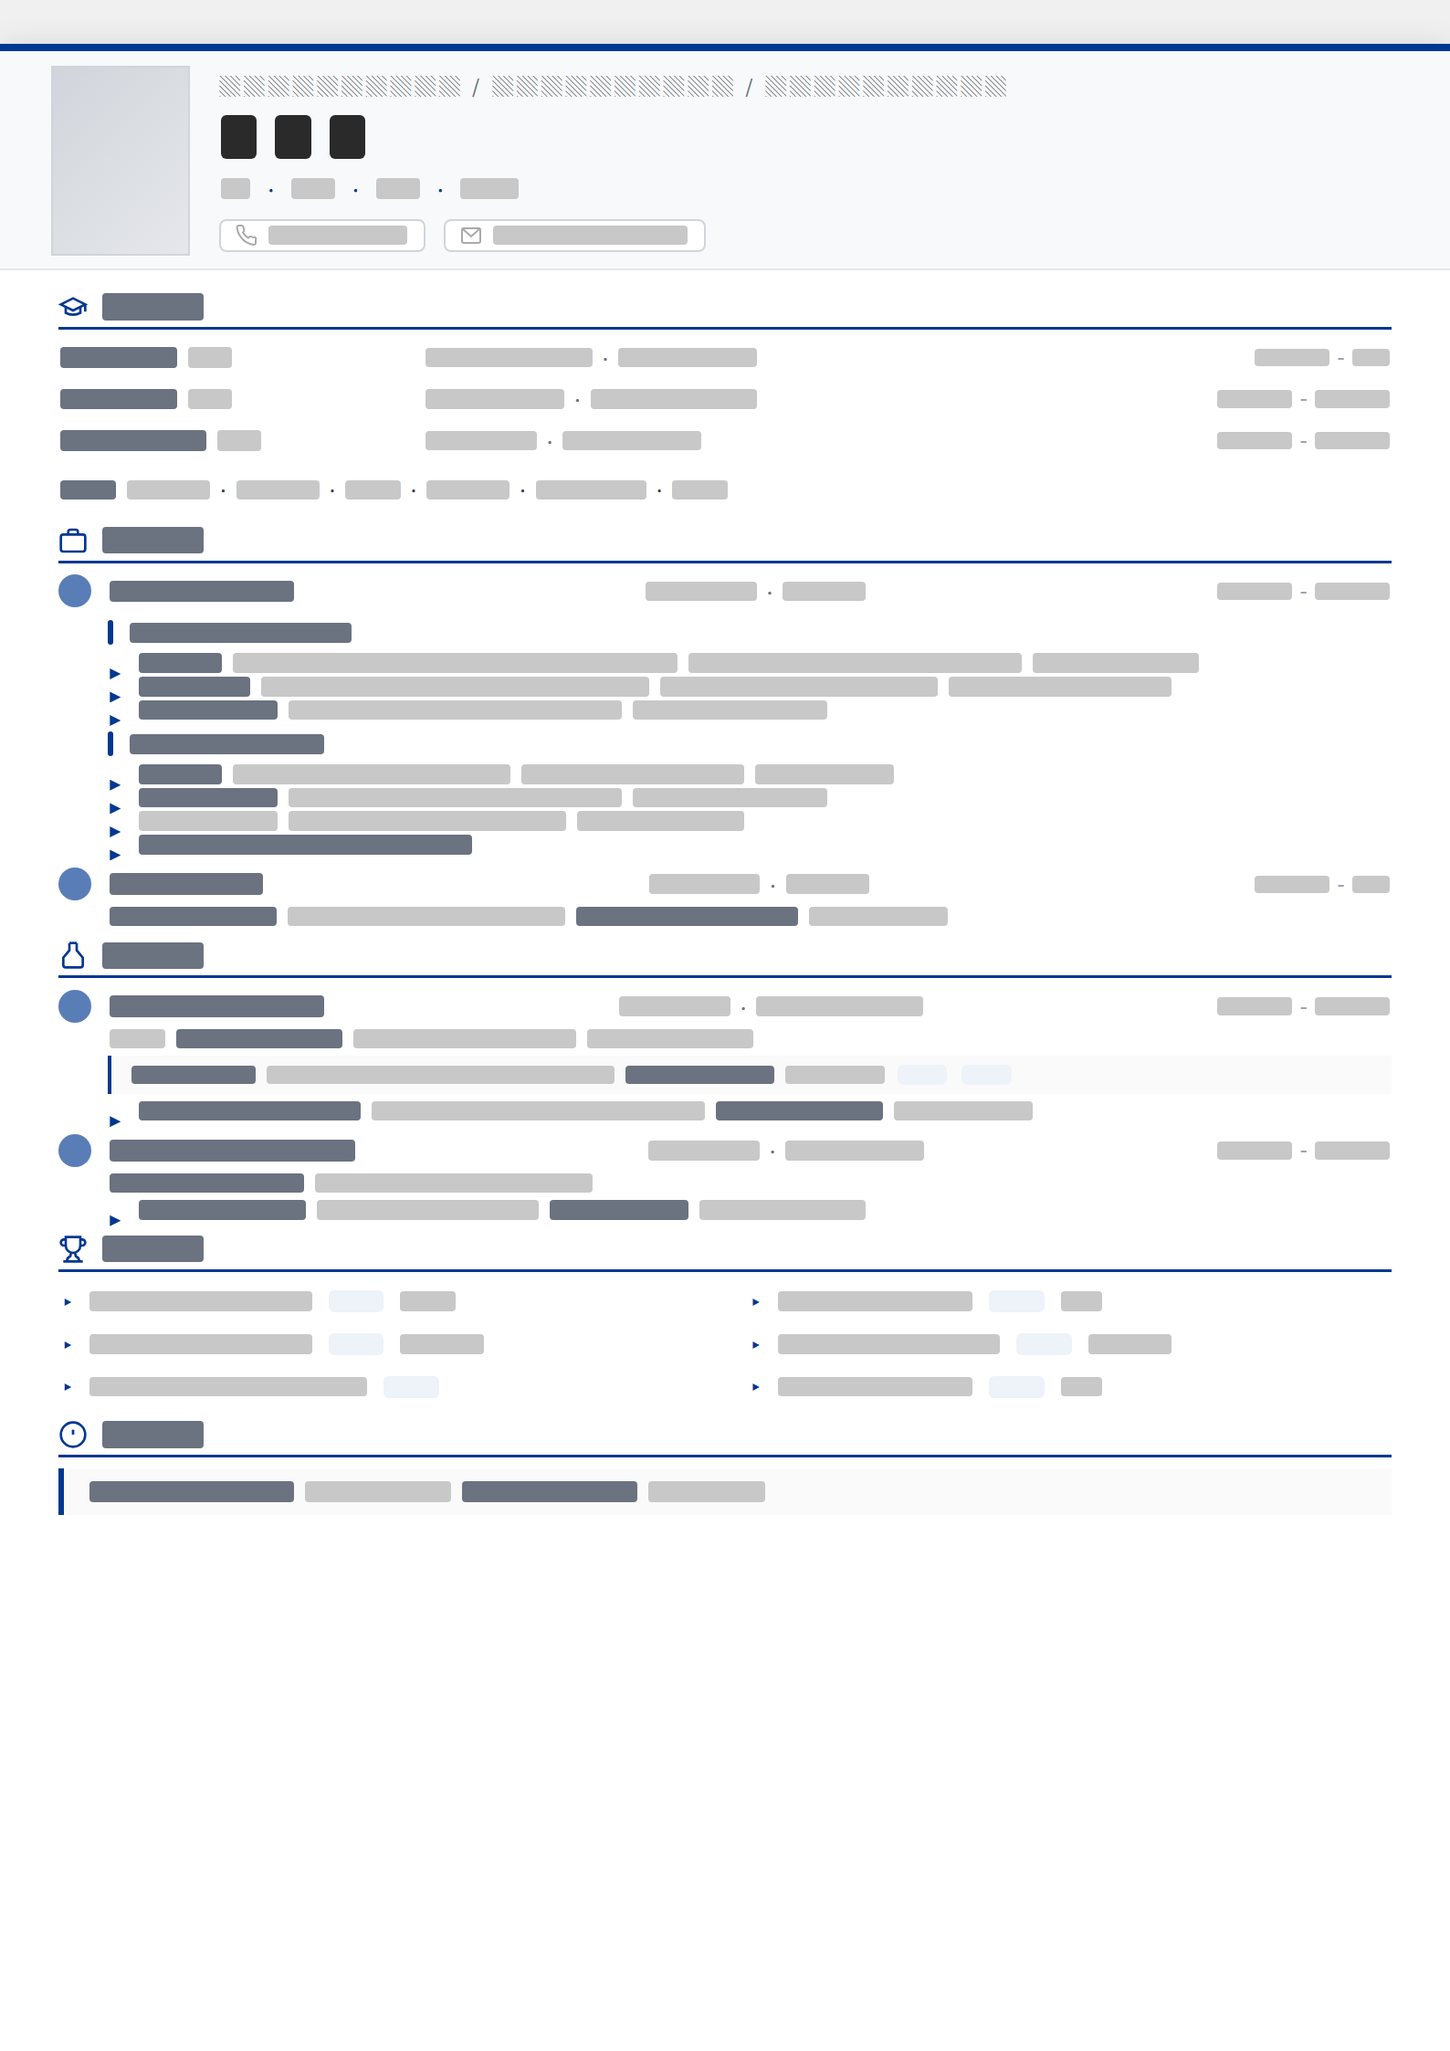
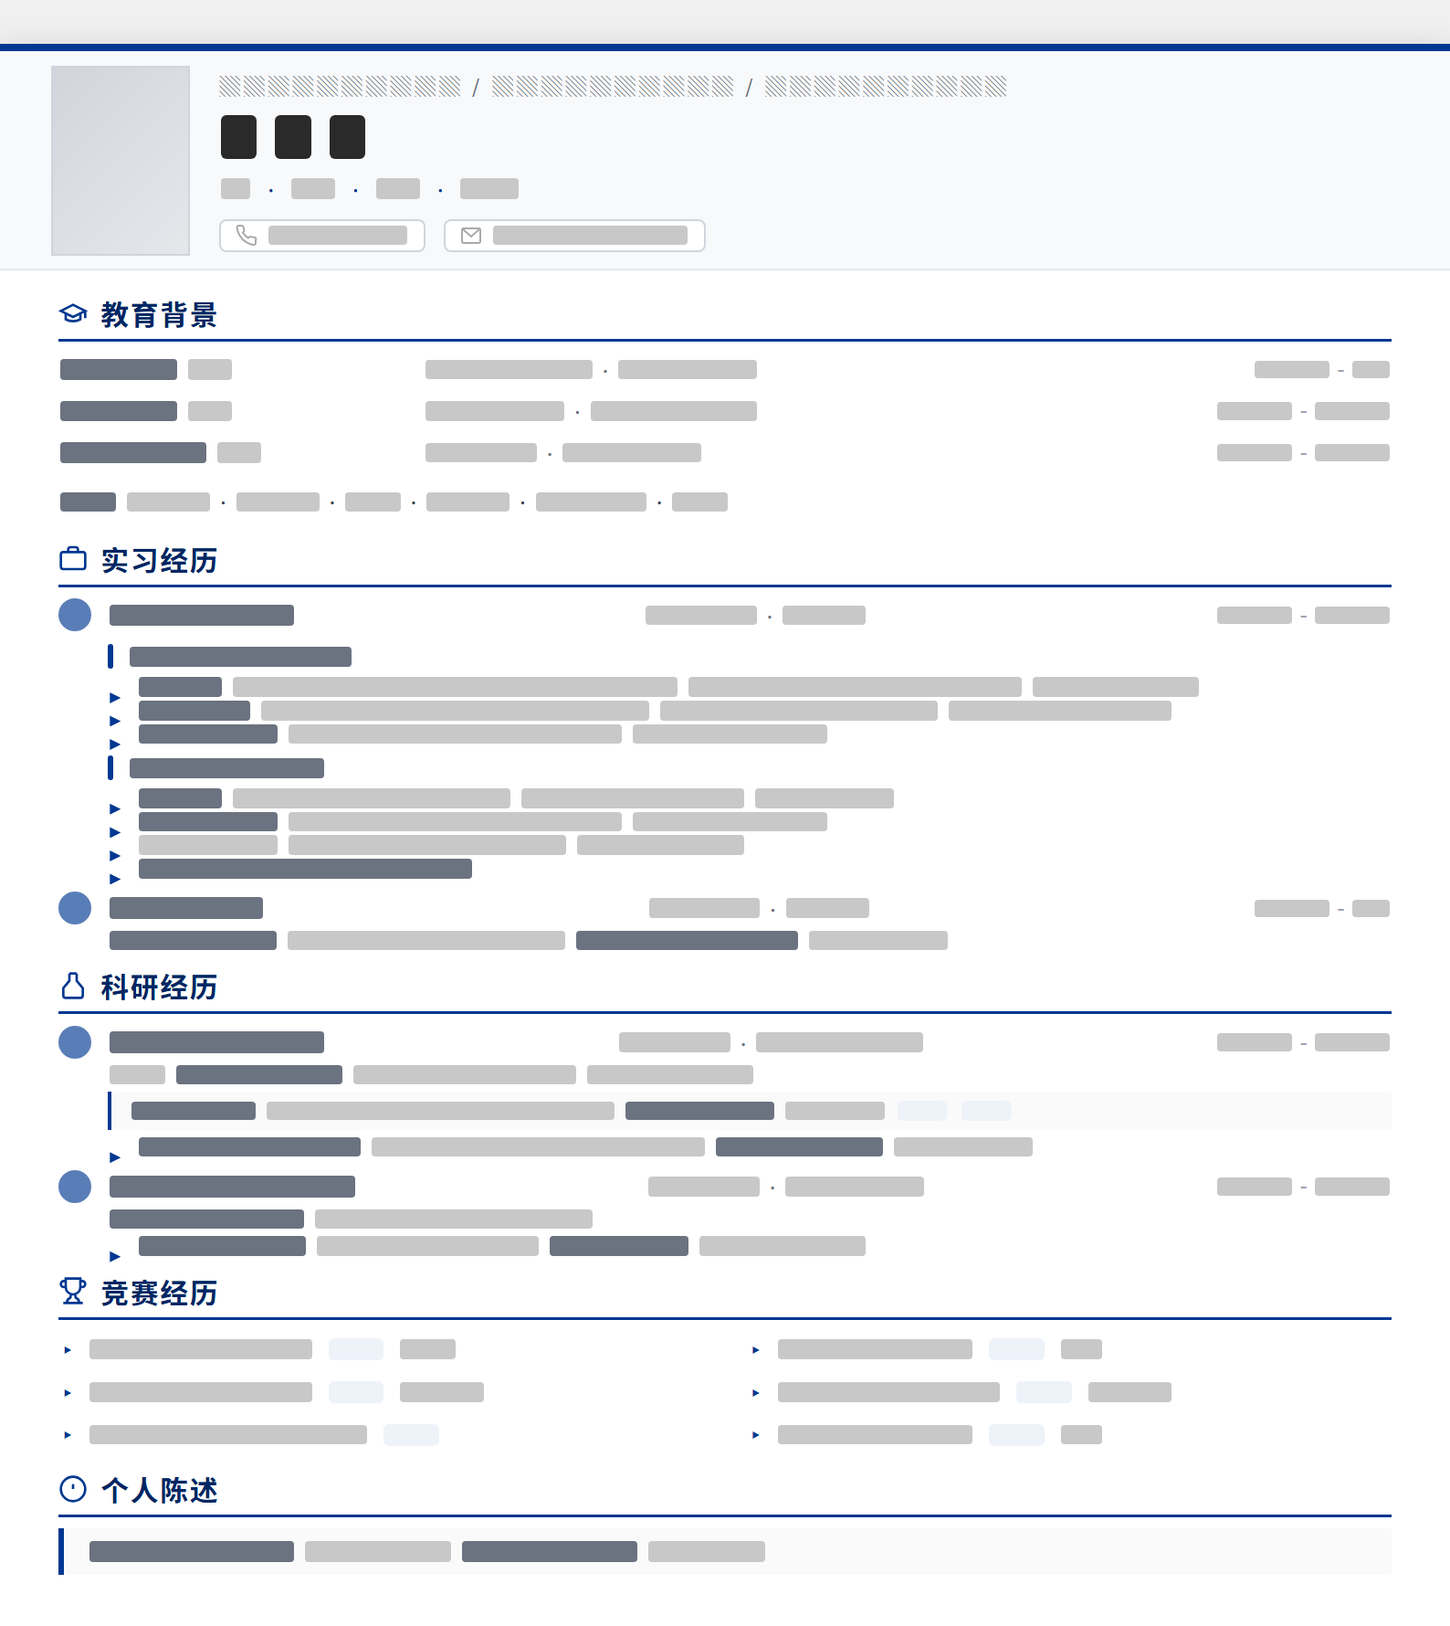
Tighter redacted preview: section titles visible, no bottom whitespace

diff --git a/examples/_preview-source.html b/examples/_preview-source.html
@@ -1,0 +1,375 @@
+<!DOCTYPE html>
+<html lang="zh-CN">
+<head>
+  <meta charset="UTF-8" />
+  <meta name="viewport" content="width=device-width, initial-scale=1.0" />
+  <title>cc-resume layout preview</title>
+  <style>
+    @font-face { font-family: "Noto Sans SC"; src: url("../fonts/noto-sans-sc-400.woff2") format("woff2"); font-weight: 400; font-display: swap; }
+    @font-face { font-family: "Noto Sans SC"; src: url("../fonts/noto-sans-sc-500.woff2") format("woff2"); font-weight: 500; font-display: swap; }
+    @font-face { font-family: "Noto Sans SC"; src: url("../fonts/noto-sans-sc-600.woff2") format("woff2"); font-weight: 600; font-display: swap; }
+    @font-face { font-family: "Noto Sans SC"; src: url("../fonts/noto-sans-sc-700.woff2") format("woff2"); font-weight: 700; font-display: swap; }
+    @font-face { font-family: "IBM Plex Sans"; src: url("../fonts/ibm-plex-sans-400.woff2") format("woff2"); font-weight: 400; font-display: swap; }
+    @font-face { font-family: "IBM Plex Sans"; src: url("../fonts/ibm-plex-sans-500.woff2") format("woff2"); font-weight: 500; font-display: swap; }
+    @font-face { font-family: "IBM Plex Sans"; src: url("../fonts/ibm-plex-sans-600.woff2") format("woff2"); font-weight: 600; font-display: swap; }
+    @font-face { font-family: "IBM Plex Sans"; src: url("../fonts/ibm-plex-sans-700.woff2") format("woff2"); font-weight: 700; font-display: swap; }
+    @font-face { font-family: "Newsreader"; src: url("../fonts/newsreader-400.woff2") format("woff2"); font-weight: 400; font-display: swap; }
+    @font-face { font-family: "Newsreader"; src: url("../fonts/newsreader-400-italic.woff2") format("woff2"); font-weight: 400; font-style: italic; font-display: swap; }
+    @font-face { font-family: "Newsreader"; src: url("../fonts/newsreader-600.woff2") format("woff2"); font-weight: 600; font-display: swap; }
+
+    :root {
+      --accent:      #003891;
+      --accent-deep: #002664;
+      --tag-bg:      #eef2f9;
+      --redact:      #c8c8c8;
+      --redact-strong: #6b7280;
+    }
+
+    * { box-sizing: border-box; margin: 0; padding: 0; }
+
+    body {
+      font-family: "IBM Plex Sans", "Noto Sans SC", "PingFang SC", "Microsoft YaHei", sans-serif;
+      font-size: 10.5pt;
+      color: #222;
+      background: #f0f0f0;
+      padding: 24px 0 40px;
+      -webkit-font-smoothing: antialiased;
+      -webkit-print-color-adjust: exact;
+      print-color-adjust: exact;
+    }
+
+    .page {
+      width: 210mm;
+      background: #fff; margin: 0 auto;
+      box-shadow: 0 2px 16px rgba(0,0,0,0.13);
+      border-top: 4px solid var(--accent);
+      padding-bottom: 14px;
+    }
+
+    /* Redaction blocks */
+    .r {
+      display: inline-block;
+      vertical-align: -1px;
+      background: var(--redact);
+      border-radius: 2px;
+      height: 0.85em;
+      margin: 0 1px;
+    }
+    .r-strong { background: var(--redact-strong); }
+    .r-2  { width: 1.2em; } .r-3  { width: 1.8em; } .r-4  { width: 2.4em; }
+    .r-6  { width: 3.6em; } .r-8  { width: 4.8em; } .r-10 { width: 6em;   }
+    .r-12 { width: 7.2em; } .r-14 { width: 8.4em; } .r-16 { width: 9.6em; }
+    .r-20 { width: 12em;  } .r-24 { width: 14.4em;} .r-28 { width: 16.8em;}
+    .r-32 { width: 19.2em;} .r-36 { width: 21.6em;}
+
+    .header {
+      display: flex; align-items: center; gap: 16px;
+      padding: 8px 28px 7px;
+      background: #f8f9fb;
+      border-bottom: 1px solid #e5e7eb;
+    }
+    .header-photo {
+      width: 76px; height: 104px;
+      border: 1px solid #d1d5db;
+      flex-shrink: 0;
+      background: linear-gradient(135deg, #d1d5db 0%, #e5e7eb 100%);
+    }
+    .header-info { flex: 1; }
+    .header-track { font-size: 8.5pt; letter-spacing: 0.18em; color: #6b7280; text-transform: uppercase; margin-bottom: 4px; }
+    .header-name {
+      display: flex; align-items: center; gap: 8px;
+      margin-bottom: 4px;
+      height: 24pt;
+    }
+    .header-name .r {
+      height: 18pt;
+      width: 1.4em;
+      background: #2a2a2a;
+      border-radius: 3px;
+    }
+    .header-basic { font-size: 10pt; color: #6b7280; margin-bottom: 8px; display: flex; gap: 8px; align-items: center; }
+    .header-basic .sep { color: var(--accent); }
+    .header-contacts { display: flex; gap: 10px; flex-wrap: wrap; }
+    .contact-item {
+      display: flex; align-items: center; gap: 5px;
+      font-size: 9.5pt; color: #374151;
+      border: 1px solid #d1d5db; border-radius: 4px;
+      padding: 2px 8px; background: #fff;
+    }
+
+    .content { padding: 12px 32px 14px; }
+    .section { margin-bottom: 8px; }
+    .section-title {
+      display: flex; align-items: center; gap: 7px;
+      font-size: 11.5pt; font-weight: 700;
+      color: var(--accent-deep);
+      border-bottom: 1.5px solid var(--accent);
+      padding-bottom: 3px; margin-bottom: 6px;
+      letter-spacing: 0.06em;
+    }
+
+    .edu-row {
+      display: flex; align-items: center;
+      margin-bottom: 4px;
+      height: 14pt;
+    }
+    .edu-school { font-weight: 600; width: 200px; flex-shrink: 0; color: #111; font-size: 10pt; display: flex; align-items: center; gap: 4px; }
+    .edu-degree { color: #6b7280; flex: 1; font-size: 9.5pt; display: flex; align-items: center; gap: 4px; }
+    .edu-date   { color: #9ca3af; font-size: 8.5pt; text-align: right; white-space: nowrap; display: flex; align-items: center; gap: 3px; justify-content: flex-end; }
+    .edu-meta {
+      font-size: 9.5pt; color: #374151;
+      line-height: 1.85; margin-top: 6px;
+      display: flex; flex-wrap: wrap; align-items: center; gap: 4px;
+    }
+
+    .entry { margin-bottom: 7px; }
+    .entry-header {
+      display: flex; align-items: center; gap: 9px;
+      margin-bottom: 3px;
+      height: 14pt;
+    }
+    .entry-logo {
+      width: 18px; height: 18px;
+      border-radius: 50%;
+      flex-shrink: 0;
+      background: var(--accent);
+      opacity: 0.65;
+    }
+    .entry-company { font-weight: 700; font-size: 10.5pt; color: #111; display: flex; gap: 4px; align-items: center; }
+    .entry-role    { color: #6b7280; flex: 1; text-align: center; font-size: 9.5pt; display: flex; gap: 4px; align-items: center; justify-content: center; }
+    .entry-date    { color: #9ca3af; font-size: 8.5pt; display: flex; gap: 3px; align-items: center; }
+    .entry-desc    { font-size: 9.5pt; color: #374151; line-height: 1.7; margin: 3px 0 4px 27px; display: flex; flex-wrap: wrap; gap: 4px; align-items: center; }
+
+    .entry-bullets { margin: 0 0 0 27px; padding-left: 0; list-style: none; }
+    .entry-bullets li {
+      position: relative;
+      font-size: 9.5pt; line-height: 1.7;
+      margin-bottom: 2px; padding-left: 16px;
+      display: flex; flex-wrap: wrap; gap: 4px; align-items: center;
+    }
+    .entry-bullets li::before {
+      content: ""; position: absolute;
+      left: 1px; top: 0.65em;
+      width: 6px; height: 6px;
+      background: var(--accent);
+      clip-path: polygon(0 0, 100% 50%, 0 100%);
+    }
+
+    .sub-heading {
+      position: relative;
+      font-size: 9.5pt; font-weight: 600;
+      color: #374151;
+      margin: 4px 0 2px 27px;
+      padding-left: 11px;
+      display: flex; gap: 4px; align-items: center;
+      height: 14pt;
+    }
+    .sub-heading::before {
+      content: ""; position: absolute;
+      left: 0; top: 0.18em; bottom: 0.22em;
+      width: 3px;
+      background: var(--accent);
+      border-radius: 1.5px;
+    }
+
+    .paper-cite {
+      font-size: 8.5pt; line-height: 1.6;
+      margin: 3px 0 4px 27px;
+      padding: 5px 10px;
+      background: #fafafa;
+      border-left: 2px solid var(--accent);
+      font-family: "Newsreader", serif;
+      display: flex; flex-wrap: wrap; gap: 4px; align-items: center;
+    }
+
+    .award-grid { display: grid; grid-template-columns: 1fr 1fr; gap: 3px 24px; }
+    .award-item {
+      font-size: 9.5pt; color: #374151;
+      line-height: 1.7;
+      display: flex; gap: 6px; align-items: center;
+    }
+    .award-item::before { content: "▸"; color: var(--accent); flex-shrink: 0; font-size: 9pt; }
+    .award-tag-block {
+      display: inline-block;
+      background: var(--tag-bg);
+      width: 2.4em; height: 0.95em;
+      border-radius: 3px; margin: 0 2px;
+    }
+
+    .statement {
+      font-size: 10pt; line-height: 1.75;
+      padding: 7px 13px;
+      background: #fafafa;
+      border-left: 3px solid var(--accent);
+      display: flex; flex-wrap: wrap; gap: 4px; align-items: center;
+    }
+
+    @page { size: A4; margin: 0; }
+  </style>
+</head>
+<body>
+<div class="page">
+
+  <div class="header">
+    <div class="header-photo"></div>
+    <div class="header-info">
+      <div class="header-track">▒▒▒▒▒▒▒▒▒▒ / ▒▒▒▒▒▒▒▒▒▒ / ▒▒▒▒▒▒▒▒▒▒</div>
+      <div class="header-name">
+        <span class="r"></span><span class="r"></span><span class="r"></span>
+      </div>
+      <div class="header-basic">
+        <span class="r r-2"></span><span class="sep">·</span>
+        <span class="r r-3"></span><span class="sep">·</span>
+        <span class="r r-3"></span><span class="sep">·</span>
+        <span class="r r-4"></span>
+      </div>
+      <div class="header-contacts">
+        <span class="contact-item">
+          <svg width="12" height="12" viewBox="0 0 24 24" fill="none" stroke="#aaa" stroke-width="2"><path d="M22 16.92v3a2 2 0 0 1-2.18 2 19.79 19.79 0 0 1-8.63-3.07A19.5 19.5 0 0 1 4.69 12 19.79 19.79 0 0 1 1.61 3.41 2 2 0 0 1 3.6 1h3a2 2 0 0 1 2 1.72c.127.96.361 1.903.7 2.81a2 2 0 0 1-.45 2.11L7.91 8.6a16 16 0 0 0 6 6l.97-.97a2 2 0 0 1 2.11-.45c.907.339 1.85.573 2.81.7A2 2 0 0 1 22 16.92z"/></svg>
+          <span class="r r-10"></span>
+        </span>
+        <span class="contact-item">
+          <svg width="12" height="12" viewBox="0 0 24 24" fill="none" stroke="#aaa" stroke-width="2"><rect x="2" y="4" width="20" height="16" rx="2"/><polyline points="2,4 12,13 22,4"/></svg>
+          <span class="r r-14"></span>
+        </span>
+      </div>
+    </div>
+  </div>
+
+  <div class="content">
+
+    <div class="section">
+      <div class="section-title">
+        <svg width="16" height="16" viewBox="0 0 24 24" fill="none" stroke="var(--accent)" stroke-width="2"><path d="M22 10v6M2 10l10-5 10 5-10 5z"/><path d="M6 12v5c3.5 2 8.5 2 12 0v-5"/></svg>
+        教育背景
+      </div>
+      <div class="edu-row">
+        <span class="edu-school"><span class="r r-8 r-strong"></span><span class="r r-3"></span></span>
+        <span class="edu-degree"><span class="r r-12"></span> · <span class="r r-10"></span></span>
+        <span class="edu-date"><span class="r r-6"></span> - <span class="r r-3"></span></span>
+      </div>
+      <div class="edu-row">
+        <span class="edu-school"><span class="r r-8 r-strong"></span><span class="r r-3"></span></span>
+        <span class="edu-degree"><span class="r r-10"></span> · <span class="r r-12"></span></span>
+        <span class="edu-date"><span class="r r-6"></span> - <span class="r r-6"></span></span>
+      </div>
+      <div class="edu-row">
+        <span class="edu-school"><span class="r r-10 r-strong"></span><span class="r r-3"></span></span>
+        <span class="edu-degree"><span class="r r-8"></span> · <span class="r r-10"></span></span>
+        <span class="edu-date"><span class="r r-6"></span> - <span class="r r-6"></span></span>
+      </div>
+      <div class="edu-meta">
+        <span class="r r-4 r-strong"></span>
+        <span class="r r-6"></span>·<span class="r r-6"></span>·<span class="r r-4"></span>·<span class="r r-6"></span>·<span class="r r-8"></span>·<span class="r r-4"></span>
+      </div>
+    </div>
+
+    <div class="section">
+      <div class="section-title">
+        <svg width="16" height="16" viewBox="0 0 24 24" fill="none" stroke="var(--accent)" stroke-width="2"><rect x="2" y="7" width="20" height="14" rx="2"/><path d="M16 7V5a2 2 0 0 0-2-2h-4a2 2 0 0 0-2 2v2"/></svg>
+        实习经历
+      </div>
+
+      <div class="entry">
+        <div class="entry-header">
+          <span class="entry-logo"></span>
+          <span class="entry-company"><span class="r r-12 r-strong"></span></span>
+          <span class="entry-role"><span class="r r-8"></span> · <span class="r r-6"></span></span>
+          <span class="entry-date"><span class="r r-6"></span> - <span class="r r-6"></span></span>
+        </div>
+
+        <div class="sub-heading"><span class="r r-16 r-strong"></span></div>
+        <ul class="entry-bullets">
+          <li><span class="r r-6 r-strong"></span><span class="r r-32"></span><span class="r r-24"></span><span class="r r-12"></span></li>
+          <li><span class="r r-8 r-strong"></span><span class="r r-28"></span><span class="r r-20"></span><span class="r r-16"></span></li>
+          <li><span class="r r-10 r-strong"></span><span class="r r-24"></span><span class="r r-14"></span></li>
+        </ul>
+
+        <div class="sub-heading"><span class="r r-14 r-strong"></span></div>
+        <ul class="entry-bullets">
+          <li><span class="r r-6 r-strong"></span><span class="r r-20"></span><span class="r r-16"></span><span class="r r-10"></span></li>
+          <li><span class="r r-10 r-strong"></span><span class="r r-24"></span><span class="r r-14"></span></li>
+          <li><span class="r r-10"></span><span class="r r-20"></span><span class="r r-12"></span></li>
+          <li><span class="r r-24 r-strong"></span></li>
+        </ul>
+      </div>
+
+      <div class="entry">
+        <div class="entry-header">
+          <span class="entry-logo"></span>
+          <span class="entry-company"><span class="r r-10 r-strong"></span></span>
+          <span class="entry-role"><span class="r r-8"></span> · <span class="r r-6"></span></span>
+          <span class="entry-date"><span class="r r-6"></span> - <span class="r r-3"></span></span>
+        </div>
+        <div class="entry-desc"><span class="r r-12 r-strong"></span><span class="r r-20"></span><span class="r r-16 r-strong"></span><span class="r r-10"></span></div>
+      </div>
+    </div>
+
+    <div class="section">
+      <div class="section-title">
+        <svg width="16" height="16" viewBox="0 0 24 24" fill="none" stroke="var(--accent)" stroke-width="2"><path d="M9 2v6L4 14v6a2 2 0 0 0 2 2h12a2 2 0 0 0 2-2v-6l-5-6V2"/><line x1="9" y1="2" x2="15" y2="2"/></svg>
+        科研经历
+      </div>
+
+      <div class="entry">
+        <div class="entry-header">
+          <span class="entry-logo"></span>
+          <span class="entry-company"><span class="r r-14 r-strong"></span></span>
+          <span class="entry-role"><span class="r r-8"></span> · <span class="r r-12"></span></span>
+          <span class="entry-date"><span class="r r-6"></span> - <span class="r r-6"></span></span>
+        </div>
+        <div class="entry-desc"><span class="r r-4"></span><span class="r r-12 r-strong"></span><span class="r r-16"></span><span class="r r-12"></span></div>
+
+        <div class="paper-cite">
+          <span class="r r-10 r-strong"></span><span class="r r-28"></span><span class="r r-12 r-strong"></span><span class="r r-8"></span>
+          <span class="award-tag-block"></span><span class="award-tag-block"></span>
+        </div>
+
+        <ul class="entry-bullets">
+          <li><span class="r r-16 r-strong"></span><span class="r r-24"></span><span class="r r-12 r-strong"></span><span class="r r-10"></span></li>
+        </ul>
+      </div>
+
+      <div class="entry">
+        <div class="entry-header">
+          <span class="entry-logo"></span>
+          <span class="entry-company"><span class="r r-16 r-strong"></span></span>
+          <span class="entry-role"><span class="r r-8"></span> · <span class="r r-10"></span></span>
+          <span class="entry-date"><span class="r r-6"></span> - <span class="r r-6"></span></span>
+        </div>
+        <div class="entry-desc"><span class="r r-14 r-strong"></span><span class="r r-20"></span></div>
+        <ul class="entry-bullets">
+          <li><span class="r r-12 r-strong"></span><span class="r r-16"></span><span class="r r-10 r-strong"></span><span class="r r-12"></span></li>
+        </ul>
+      </div>
+    </div>
+
+    <div class="section">
+      <div class="section-title">
+        <svg width="16" height="16" viewBox="0 0 24 24" fill="none" stroke="var(--accent)" stroke-width="2"><path d="M6 9H4.5a2.5 2.5 0 0 1 0-5H6m12 0h1.5a2.5 2.5 0 0 1 0 5H18M4 22h16M10 14.66V17c0 .55-.47.98-.97 1.21C7.85 18.75 7 20.24 7 22m10 0c0-1.76-.85-3.25-2.03-3.79-.5-.23-.97-.66-.97-1.21v-2.34M18 2H6v7a6 6 0 0 0 12 0V2z"/></svg>
+        竞赛经历
+      </div>
+      <div class="award-grid">
+        <div class="award-item"><span class="r r-16"></span><span class="award-tag-block"></span><span class="r r-4"></span></div>
+        <div class="award-item"><span class="r r-14"></span><span class="award-tag-block"></span><span class="r r-3"></span></div>
+        <div class="award-item"><span class="r r-16"></span><span class="award-tag-block"></span><span class="r r-6"></span></div>
+        <div class="award-item"><span class="r r-16"></span><span class="award-tag-block"></span><span class="r r-6"></span></div>
+        <div class="award-item"><span class="r r-20"></span><span class="award-tag-block"></span></div>
+        <div class="award-item"><span class="r r-14"></span><span class="award-tag-block"></span><span class="r r-3"></span></div>
+      </div>
+    </div>
+
+    <div class="section" style="margin-bottom:0;">
+      <div class="section-title">
+        <svg width="16" height="16" viewBox="0 0 24 24" fill="none" stroke="var(--accent)" stroke-width="2"><circle cx="12" cy="12" r="10"/><line x1="12" y1="8" x2="12" y2="12"/><line x1="12" y1="16" x2="12.01" y2="16"/></svg>
+        个人陈述
+      </div>
+      <div class="statement">
+        <span class="r r-14 r-strong"></span><span class="r r-10"></span><span class="r r-12 r-strong"></span><span class="r r-8"></span>
+      </div>
+    </div>
+
+  </div>
+</div>
+</body>
+</html>
